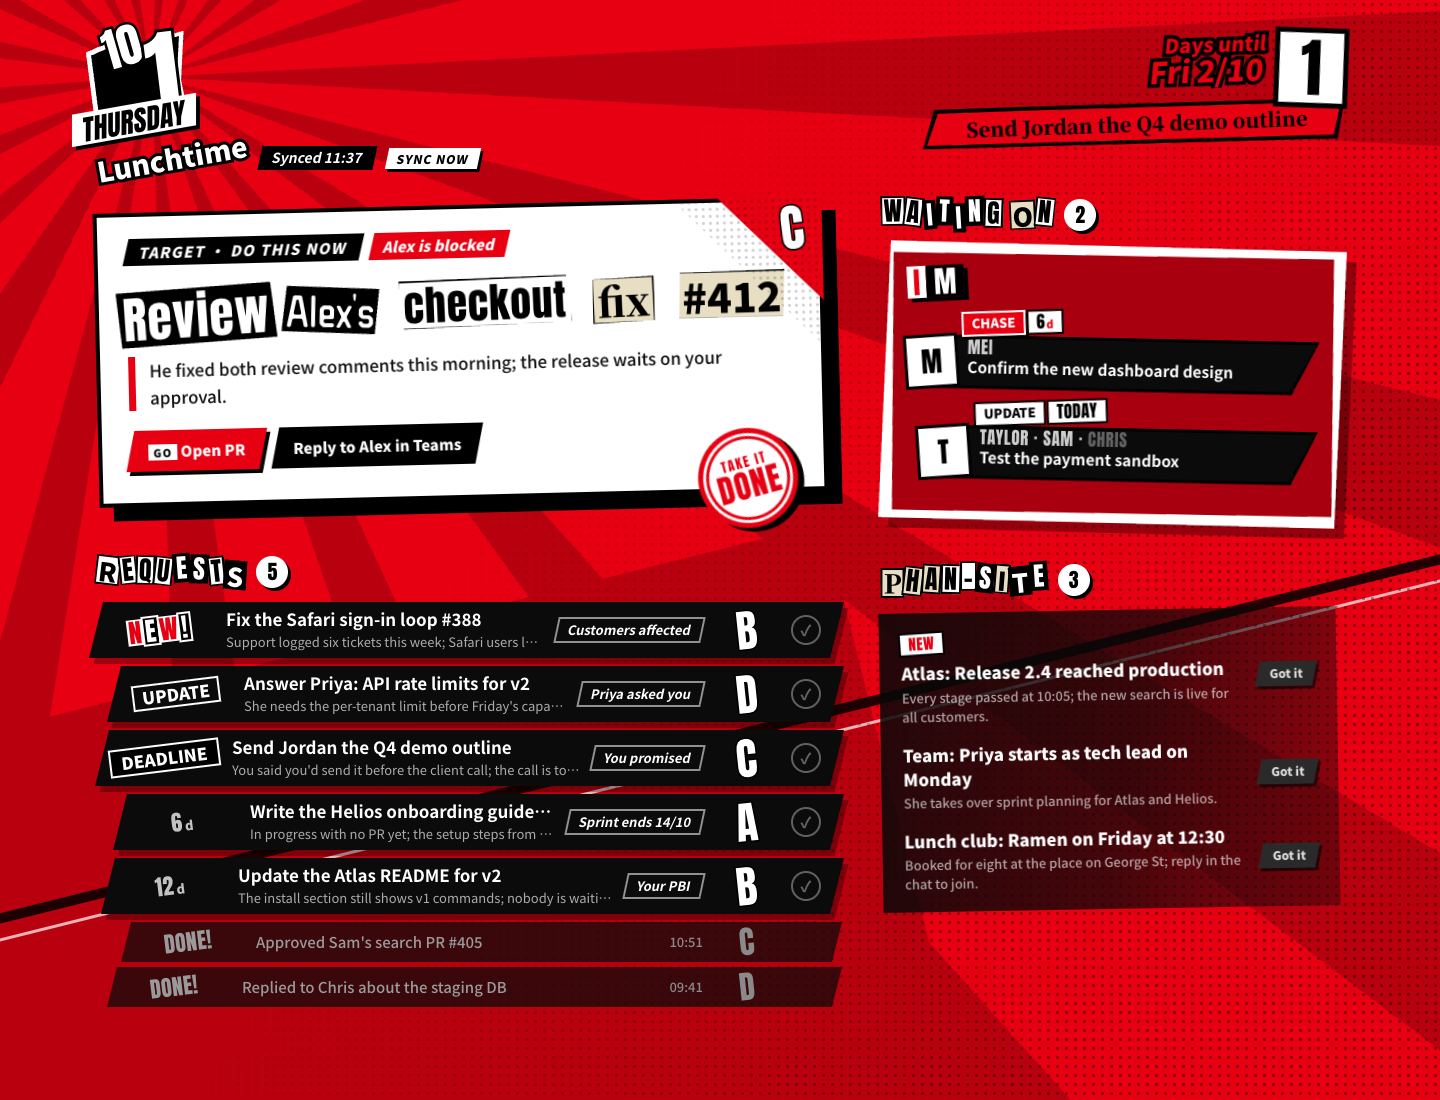
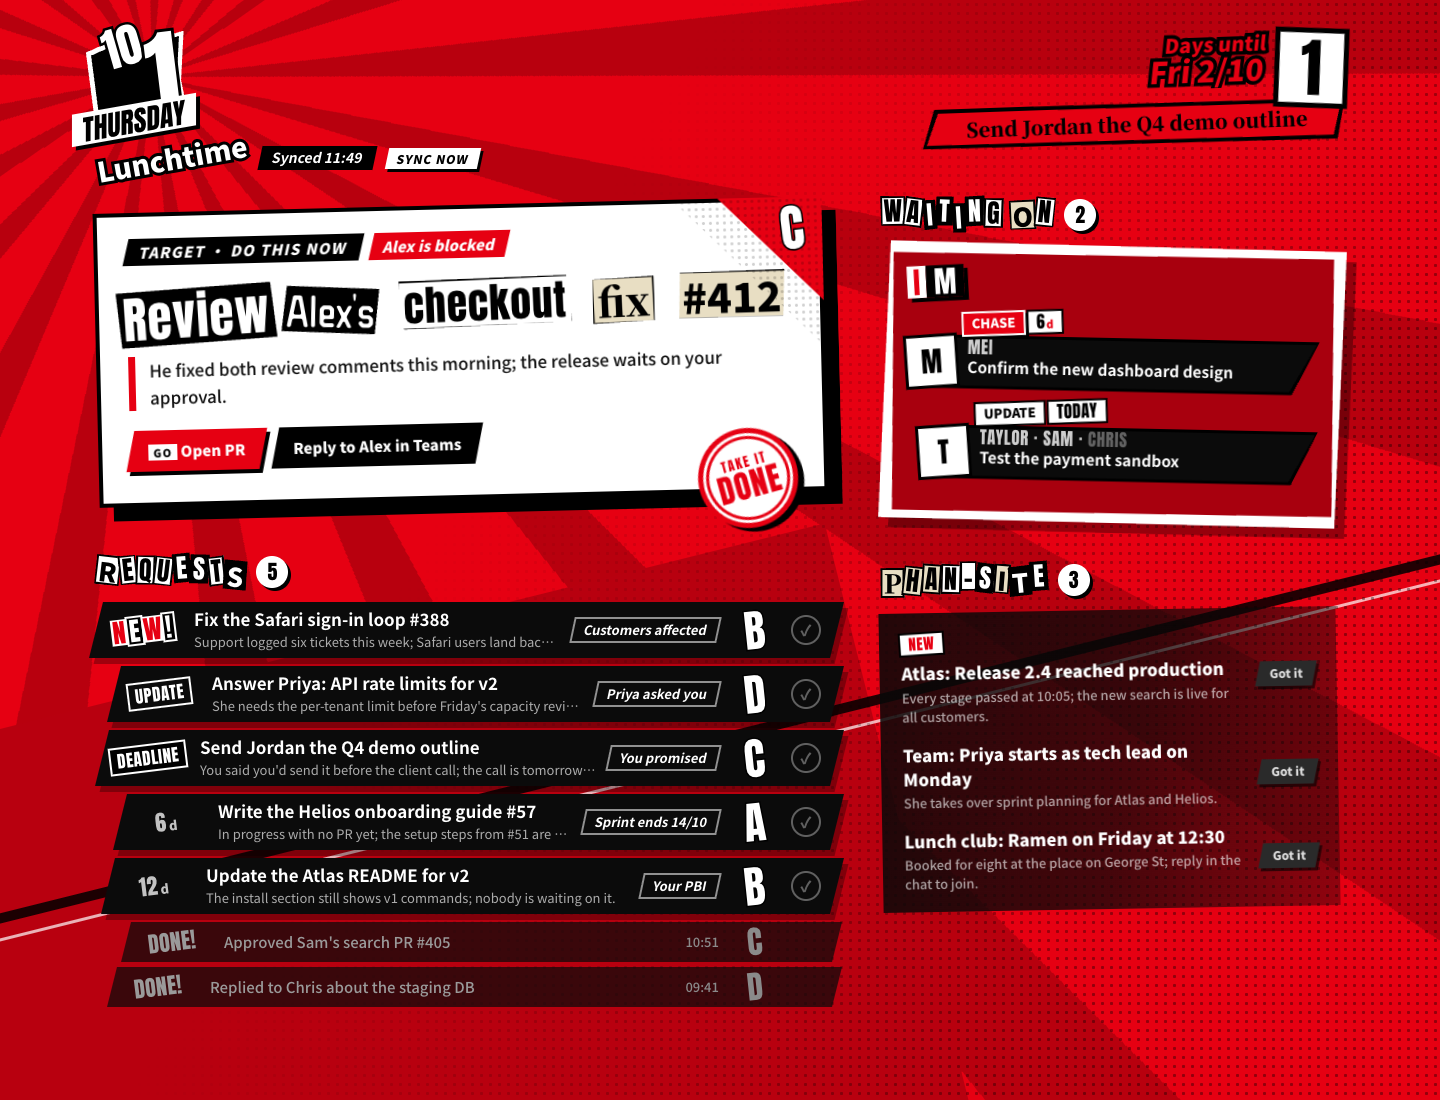
Narrower status and difficulty columns, so request titles fit; MIT license

diff --git a/template.html b/template.html
@@ -172,7 +172,7 @@
 
   /* ---------- queue: the REQUEST list — status stamp · request · client; done requests stay, stamped DONE! ---------- */
   .req { margin-top: 8px; }
-  .rq { position: relative; display: grid; grid-template-columns: 112px minmax(0, 1fr) auto 64px 30px; align-items: center; gap: 12px;
+  .rq { position: relative; display: grid; grid-template-columns: 80px minmax(0, 1fr) auto 48px 30px; align-items: center; gap: 12px;
     min-height: 56px; margin: 0 0 8px var(--x); padding: 6px 16px 6px 6px; color: #fff; transition: transform .14s cubic-bezier(.3,1.7,.5,1); }
   .rq > * { position: relative; z-index: 2; }
   .rq::before { content: ""; position: absolute; inset: 0; z-index: 1; background: #0b0b0b; transform: skewX(-14deg); box-shadow: 6px 6px 0 rgba(0,0,0,.3); }
@@ -182,9 +182,10 @@
   .st.new { font: 26px/1 var(--anton); letter-spacing: .02em; }
   .st.new i { display: inline-block; padding: 0 .06em; font-style: normal; }
   .st.new i:nth-child(odd) { background: #fff; color: var(--red); } .st.new i:nth-child(even) { background: #000; color: #fff; box-shadow: 0 0 0 2px #fff; }
-  .st.hot { background: #fff; color: var(--red); padding: 1px 10px; font: 900 18px/1.3 var(--sans); }
-  .st.upd { color: #fff; font: 900 17px/1.3 var(--sans); border: 2px solid #fff; padding: 0 8px; }
-  .st.due { background: #000; color: #fff; padding: 1px 10px; font: 900 17px/1.3 var(--sans); box-shadow: 0 0 0 2px #fff; }
+  .st.hot { background: #fff; color: var(--red); }
+  .st.upd { color: #fff; border: 2px solid #fff; }
+  .st.due { background: #000; color: #fff; box-shadow: 0 0 0 2px #fff; }
+  .st.hot, .st.upd, .st.due { font: 17px/1.3 var(--anton); letter-spacing: .03em; padding: 1px 6px; }   /* DEADLINE fits the 80px column */
   .st.age { color: rgba(255,255,255,.75); font: 22px/1 var(--anton); letter-spacing: .02em; }
   .st.age small { font: 900 13px/1 var(--sans); margin-left: 2px; }
   .rq.sel .st.hot { background: #000; color: #fff; }
@@ -391,7 +392,7 @@
     .rq-end { grid-column: 2; grid-row: 2; }
     .rq.done .rq-c { font-size: 26px; }
     .st.new { font-size: 20px; } .st.done { font-size: 24px; }
-    .st.hot, .st.upd, .st.due { font: 15px/1.3 var(--anton); letter-spacing: .03em; padding: 1px 6px; }   /* DEADLINE fits the 76px column */
+    .st.hot, .st.upd, .st.due { font-size: 15px; }   /* DEADLINE fits the 76px column */
     .phone-in { padding: 12px 10px 14px; }
     .ib-detail { margin: 8px 0 6px 8px; }
     .pc-sign { margin-left: 0; }
